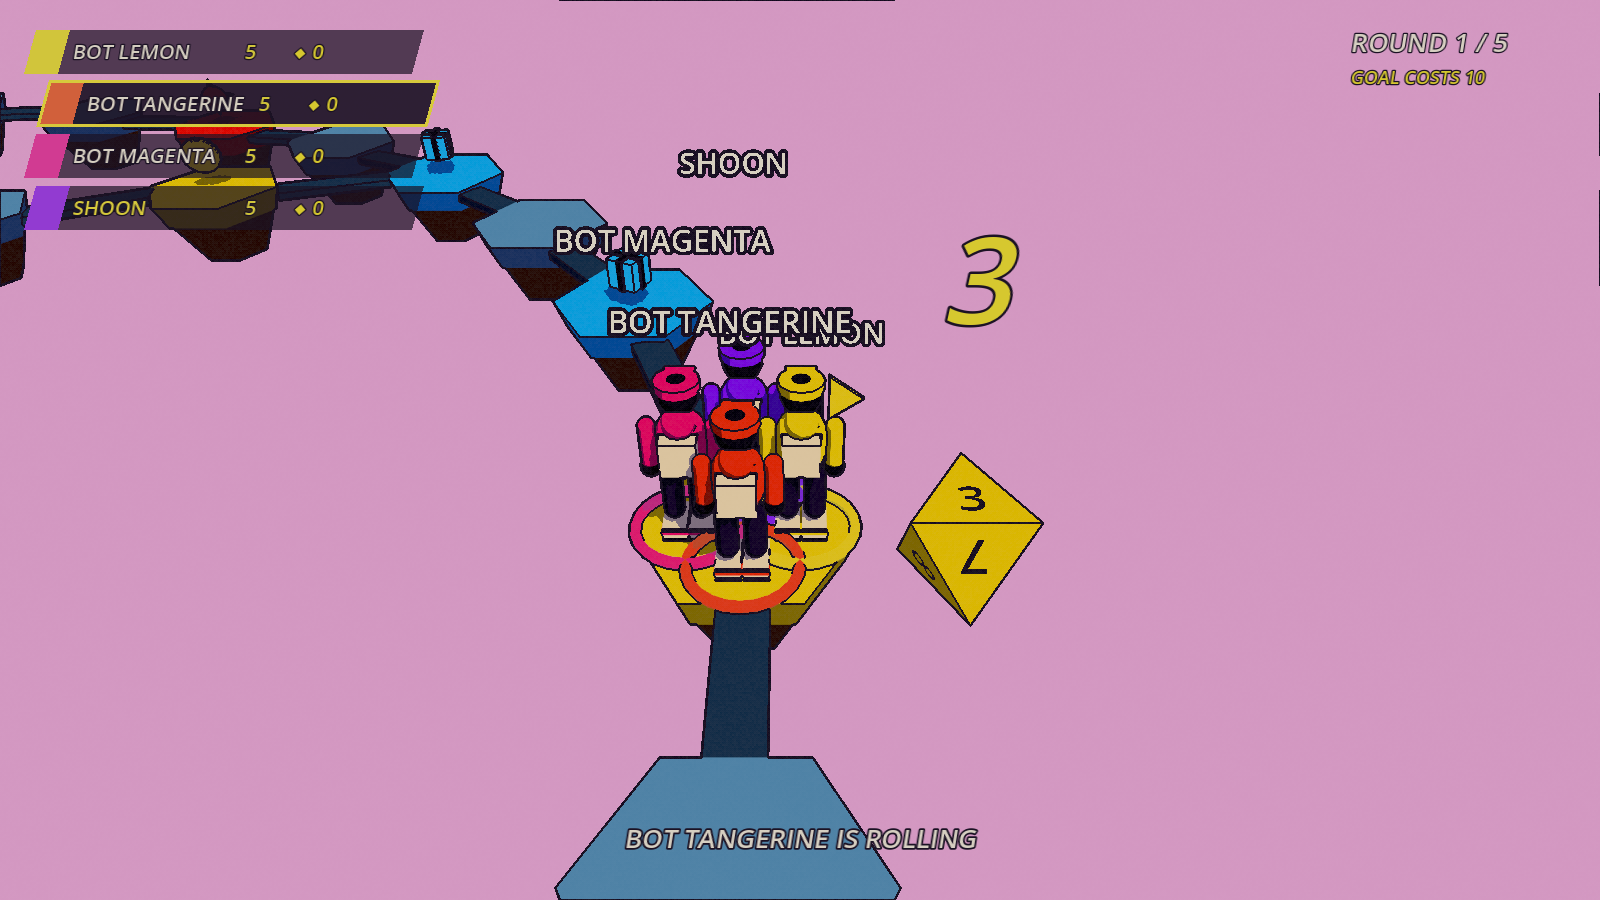
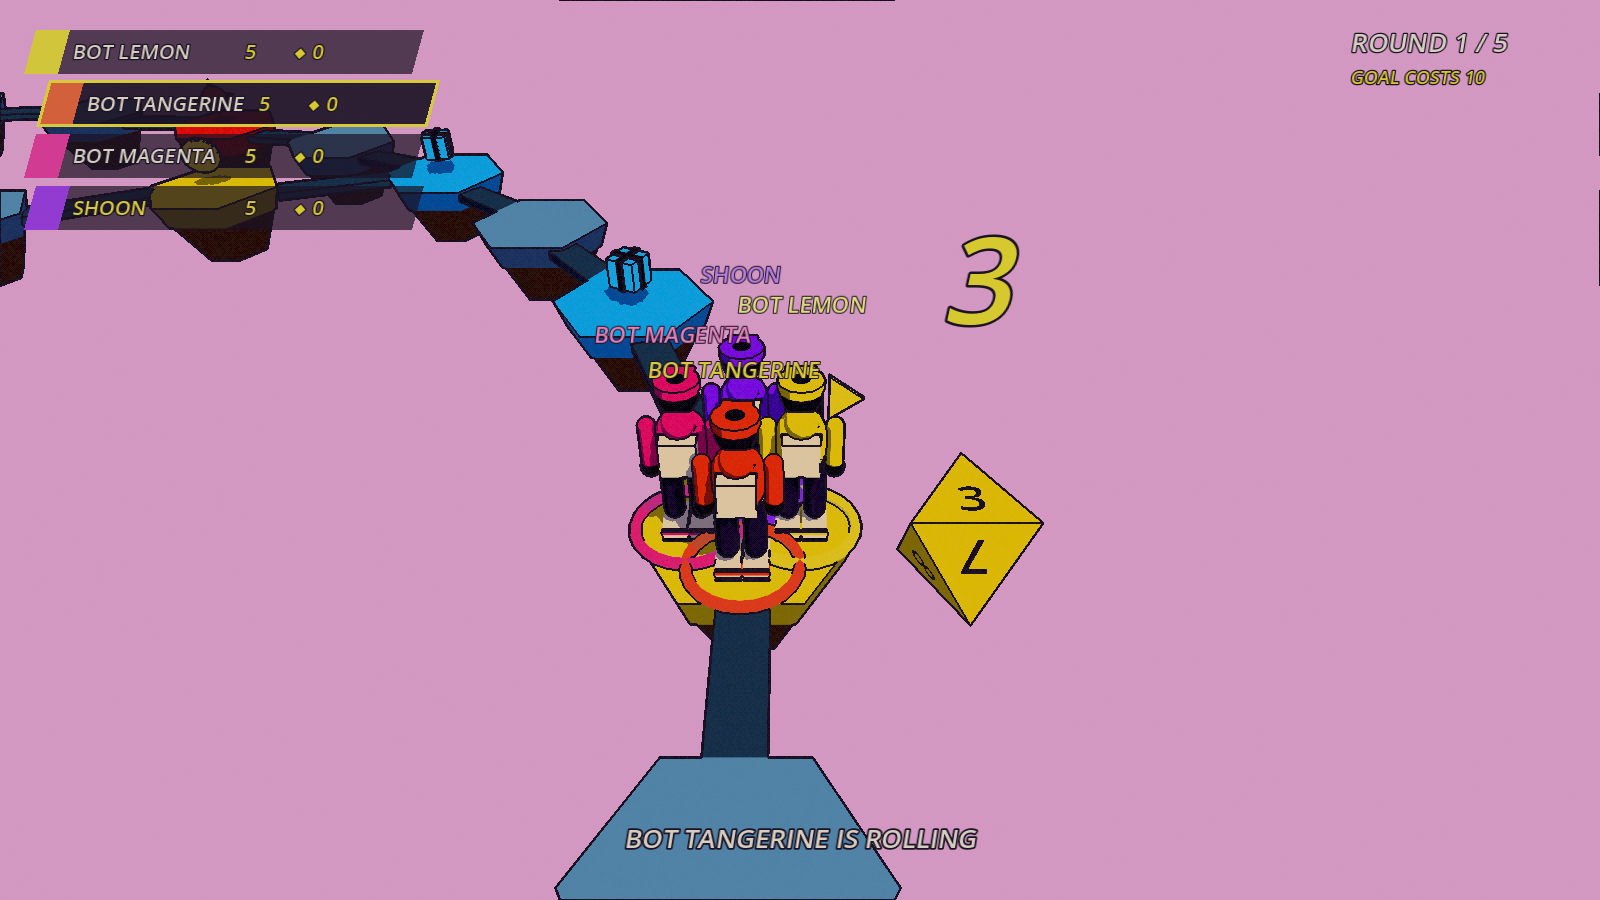
Board name tags drawn by the HUD with overlap pushing
Projected from each pawn's head, sized by distance, upper tags pushed up
when two would overprint; the active player's tag in the accent colour.
BoardPawn no longer carries a Label3D.

Changed region(s): [[0.3438, 0.2489, 0.5625, 0.4356], [0.4062, 0.1556, 0.5, 0.2178]]

diff --git a/DECISIONS.md b/DECISIONS.md
@@ -125,3 +125,4 @@ Append-only. One line per assumption: date, the decision, the reason. Newest at 
 - 2026-09-18 — The board camera also orbits behind the moving pawn along its heading (eased at ≤ 100°/s) and follows tighter during hops, then at a fork stands behind the pawn looking down the middle of the two paths so LEFT and RIGHT are literally left and right on screen. With the close framing the pawn had been running to the frame edge on turns toward the camera.
 - 2026-09-18 — Eight-sided die (Sean): rolls are 1–8 (`board.json` `dice_sides`, the rules read it), and the 3D die is an octahedron built with SurfaceTool (vertex radius 0.8, rests on a face at 0.46 m) with ink numbers on the faces, opposite faces summing to 9 like a real d8. It lands to the camera's right of the pawn with the number reading upright from the camera; TURBO shows as "5 +3" on the HUD while the die shows the raw 5. A test checks the eight face normals are distinct, opposite pairs sum to 9 and each face's roll-up rotation puts it on top. Average move is now 4.5 spaces on a 65-space loop.
 - 2026-09-18 — Every `Label3D` under the outline post quad was invisible (pawn names, the "?" sign, floating coin labels, arena name tags, and then the die numbers): the quad samples `hint_screen_texture`, which Godot captures after the opaque pass, and overwrites transparent geometry drawn before it in the transparent pass. Labels now render alpha-cut (`ALPHA_CUT_DISCARD`, opaque pass) so they sit in the screen texture and get the ink pass like everything else. The results podium's labels live in a SubViewport without the quad and were fine, which is why the bug hid.
+- 2026-09-18 — Board name tags are drawn by the HUD: each pawn's head is projected with the camera, tags are sized by distance and pushed apart when they would overprint (four pawns on the start tile did), the active player's tag in the accent colour. The Label3D tags could not be de-overlapped in world space because depth shifts a nearer pawn's tag up the screen more than any fixed lift. Arena name tags stay 3D (players rarely stack there).

diff --git a/STATUS.md b/STATUS.md
@@ -264,7 +264,9 @@ upright; TURBO shows as "5 +3". Found while doing it: every `Label3D` in a post-
 (pawn names, the "?" event sign, floating +3 labels, arena name tags, the die numbers) had
 never rendered, because the outline post quad samples the screen texture from the opaque pass
 and paints over transparent objects drawn before it. Labels now use alpha-cut (opaque pass)
-and get inked with everything else. `board_dice_landed.png`, `board_turn.png`.
+and get inked with everything else. Pawn name tags moved to the HUD (projected from each
+head, sized by distance, pushed apart when four pawns share the start tile, the active
+player's in the accent colour). `board_dice_landed.png`, `board_turn.png`.
 
 ### Bugs found and fixed today (all measured before and after)
 
